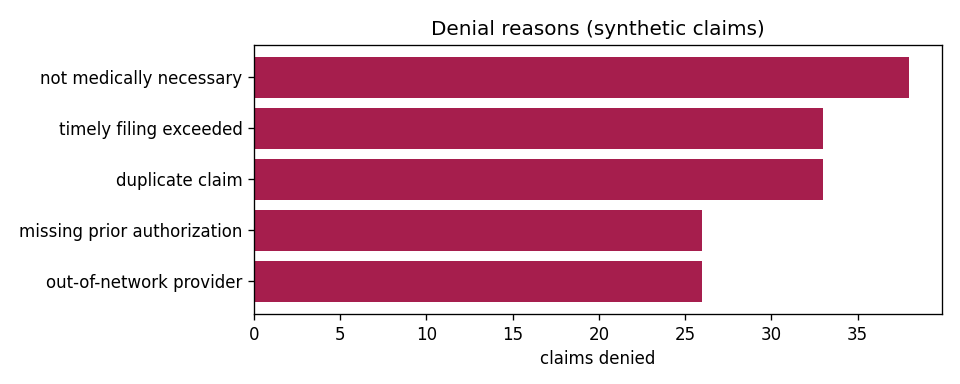
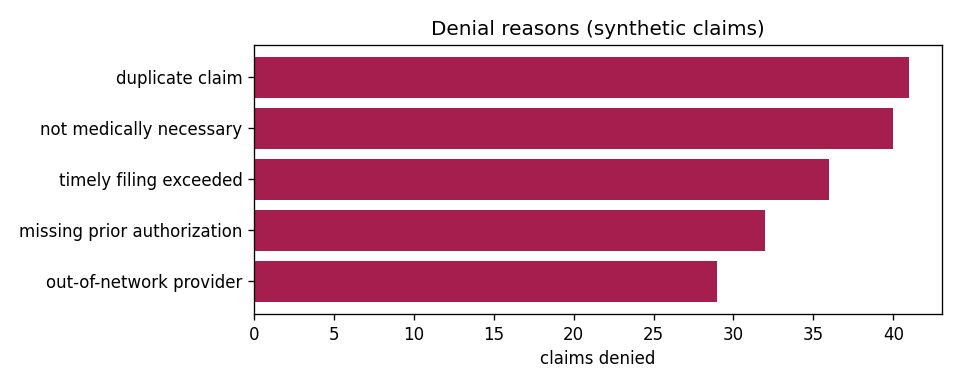
Add month-over-month trend table (complete months only)
Claims, paid and denial-rate change vs prior month; the in-progress month is excluded so partial data does not distort it. +180 synthetic claims, 2 new tests (43 total).

diff --git a/tests/test_pipeline.py b/tests/test_pipeline.py
@@ -210,3 +210,30 @@ def test_report_renders_duplicates_section_even_when_empty():
         "member_id": "MBR-0001", "procedure_code": "99213", "service_date": "2026-11-01",
         "claim_ids": ["A", "B"], "paid": 90.0}])
     assert "| MBR-0001 | 99213 | 2026-11-01 | 2 | $90 |" in md
+
+
+def test_monthly_trend_changes(tmp_path):
+    pipe = Pipeline(tmp_path / "c.csv")
+    pipe.ingest([
+        make_valid("CLM-1", service_date="2026-09-05", paid_amount=100, allowed_amount=100, billed_amount=200),
+        make_valid("CLM-2", service_date="2026-09-06", paid_amount=100, allowed_amount=100, billed_amount=200),
+        make_valid("CLM-3", service_date="2026-10-05", paid_amount=300, allowed_amount=300, billed_amount=400),
+        make_valid("CLM-4", service_date="2026-10-06", status="denied", paid_amount=0,
+                   allowed_amount=0, billed_amount=100, denial_reason="duplicate claim"),
+        make_valid("CLM-5", service_date="2026-10-07", paid_amount=0, allowed_amount=0,
+                   billed_amount=100, status="denied", denial_reason="duplicate claim"),
+        make_valid("CLM-6", service_date="2026-10-08", paid_amount=100, allowed_amount=100, billed_amount=200),
+    ])
+    first, second = pipe.monthly_trend()
+    assert first["claims_change"] is None and first["denial_rate_pp"] is None
+    assert second["claims_change"] == 1.0   # 2 -> 4 claims
+    assert second["paid_change"] == 1.0     # 200 -> 400
+    assert second["denial_rate_pp"] == 50.0  # 0% -> 50%
+
+
+def test_report_renders_trend_table():
+    from healthdata import report
+    md = report.render_markdown([], [], [], 0, trend=[
+        {"month": "2026-09", "claims_change": None, "paid_change": None, "denial_rate_pp": None},
+        {"month": "2026-10", "claims_change": 0.25, "paid_change": -0.1, "denial_rate_pp": 1.5}])
+    assert "| 2026-10 | +25.0% | -10.0% | +1.50 pp |" in md and "| 2026-09 | - | - | - |" in md

diff --git a/src/healthdata/report.py b/src/healthdata/report.py
@@ -17,7 +17,8 @@ def render_markdown(monthly: list[dict], denial_reasons: list[tuple[str, int]],
                     utilization: dict | None = None,
                     age_bands: list[dict] | None = None,
                     reasons_by_plan: dict | None = None,
-                    duplicates: list[dict] | None = None) -> str:
+                    duplicates: list[dict] | None = None,
+                    trend: list[dict] | None = None) -> str:
     generated_at = generated_at or dt.datetime.now(dt.timezone.utc)
     total_paid = sum(m["paid"] for m in monthly)
     total_billed = sum(m["billed"] for m in monthly)
@@ -75,6 +76,14 @@ def render_markdown(monthly: list[dict], denial_reasons: list[tuple[str, int]],
                   "| Plan | Denials | Top reason | Count |", "| --- | ---: | --- | ---: |"]
         for plan, reasons in reasons_by_plan.items():
             lines.append(f"| {plan} | {sum(c for _, c in reasons)} | {reasons[0][0]} | {reasons[0][1]} |")
+    if trend and len(trend) > 1:
+        def fmt(v, suffix=""):
+            return "-" if v is None else f"{v:+.1%}" if suffix == "%" else f"{v:+.2f} pp"
+        lines += ["", "## Month-over-month trend (last 6 complete months)", "",
+                  "| Month | Claims | Paid | Denial rate |", "| --- | ---: | ---: | ---: |"]
+        for t in trend[-6:]:
+            lines.append(f"| {t['month']} | {fmt(t['claims_change'], '%')} | "
+                         f"{fmt(t['paid_change'], '%')} | {fmt(t['denial_rate_pp'])} |")
     if duplicates is not None:
         lines += ["", "## Potential duplicate services", "",
                   f"{len(duplicates)} groups share a member, procedure and service date "

diff --git a/src/healthdata/pipeline.py b/src/healthdata/pipeline.py
@@ -230,3 +230,22 @@ class Pipeline:
                             "claim_ids": sorted(r["claim_id"] for r in rows),
                             "paid": round(sum(float(r["paid_amount"] or 0) for r in rows), 2)})
         return sorted(out, key=lambda g: (-g["paid"], g["member_id"], g["service_date"]))
+
+    def monthly_trend(self) -> list[dict]:
+        """Month-over-month change in claim volume, paid dollars and denial
+        rate (percentage points). The first month has no prior, so its
+        changes are None. Synthetic, illustrative."""
+        months = self.monthly_financials()
+        out = []
+        prev = None
+        for m in months:
+            def pct(cur, old):
+                return round((cur - old) / old, 4) if old else None
+            out.append({
+                "month": m["month"],
+                "claims_change": pct(m["claims"], prev["claims"]) if prev else None,
+                "paid_change": pct(m["paid"], prev["paid"]) if prev else None,
+                "denial_rate_pp": round((m["denial_rate"] - prev["denial_rate"]) * 100, 2) if prev else None,
+            })
+            prev = m
+        return out

diff --git a/scripts/daily_update.py b/scripts/daily_update.py
@@ -56,7 +56,9 @@ def main() -> int:
                                utilization=pipe.high_utilizers(),
                                age_bands=pipe.age_band_costs(),
                                reasons_by_plan=pipe.denial_reasons_by_plan(),
-                               duplicates=pipe.potential_duplicates()),
+                               duplicates=pipe.potential_duplicates(),
+                               trend=[t for t in pipe.monthly_trend()
+                                      if t["month"] < today.strftime("%Y-%m")]),
         encoding="utf-8",
     )
     if report.plot_monthly_financials(monthly, REPORTS / "monthly_financials.png"):

diff --git a/reports/claims_report.md b/reports/claims_report.md
@@ -1,8 +1,8 @@
 # Healthcare Data - claims pipeline report
 
-Generated 2026-11-18 09:08 UTC. All data is synthetic - no real member, patient or plan information.
+Generated 2026-11-18 14:09 UTC. All data is synthetic - no real member, patient or plan information.
 
-**1520 claims** in store. Billed $4,431,586, paid $2,594,257, denied 155 overall.
+**1700 claims** in store. Billed $5,108,477, paid $2,952,606, denied 177 overall.
 
 ## Monthly financials
 
@@ -20,45 +20,45 @@ Generated 2026-11-18 09:08 UTC. All data is synthetic - no real member, patient 
 | 2026-08 | 50 | $87,251 | $70,911 | $55,220 | 18.0% |
 | 2026-09 | 28 | $97,162 | $80,729 | $53,482 | 7.1% |
 | 2026-10 | 47 | $71,505 | $55,063 | $42,442 | 8.5% |
-| 2026-11 | 1041 | $3,161,624 | $2,438,863 | $1,802,808 | 10.2% |
+| 2026-11 | 1221 | $3,838,514 | $2,960,836 | $2,161,156 | 10.5% |
 
 ## Denial reasons
 
-- not medically necessary (38)
-- timely filing exceeded (33)
-- duplicate claim (33)
-- missing prior authorization (26)
-- out-of-network provider (26)
+- duplicate claim (41)
+- not medically necessary (40)
+- timely filing exceeded (36)
+- missing prior authorization (32)
+- out-of-network provider (29)
 
 ## Plan mix
 
-- HMO: 413
-- PPO: 393
-- EPO: 374
-- HDHP: 340
+- HMO: 465
+- PPO: 433
+- EPO: 428
+- HDHP: 374
 
 ## Plan performance
 
 | Plan | Claims | Denial rate | Paid / billed |
 | --- | ---: | ---: | ---: |
-| HMO | 413 | 9.4% | 62.8% |
-| PPO | 393 | 12.0% | 54.4% |
-| EPO | 374 | 11.0% | 55.5% |
-| HDHP | 340 | 8.5% | 61.4% |
+| HMO | 465 | 9.7% | 60.9% |
+| PPO | 433 | 11.6% | 55.1% |
+| EPO | 428 | 11.7% | 55.4% |
+| HDHP | 374 | 8.8% | 60.0% |
 
 ## Top procedures by paid amount
 
 | Code | Claims | Avg billed | Paid | Denial rate |
 | --- | ---: | ---: | ---: | ---: |
-| 27447 | 149 | $25,130 | $2,195,863 | 10.1% |
-| 43239 | 161 | $2,054 | $190,170 | 10.6% |
-| 99285 | 153 | $1,061 | $91,140 | 12.4% |
-| 70450 | 149 | $668 | $60,780 | 6.7% |
-| 99214 | 142 | $167 | $13,609 | 12.7% |
+| 27447 | 173 | $25,138 | $2,514,214 | 11.6% |
+| 43239 | 179 | $2,044 | $208,446 | 11.7% |
+| 99285 | 168 | $1,060 | $101,164 | 11.9% |
+| 70450 | 165 | $664 | $66,100 | 7.3% |
+| 99214 | 163 | $168 | $15,819 | 11.0% |
 
 ## Member utilization
 
-100 of 1055 synthetic members have 3+ claims and account for 19.3% of paid dollars.
+126 of 1129 synthetic members have 3+ claims and account for 21.6% of paid dollars.
 
 | Member | Claims | Paid |
 | --- | ---: | ---: |
@@ -66,20 +66,31 @@ Generated 2026-11-18 09:08 UTC. All data is synthetic - no real member, patient 
 | MBR-0746 | 5 | $11,386 |
 | MBR-1542 | 4 | $27,681 |
 | MBR-0471 | 4 | $16,601 |
-| MBR-1166 | 4 | $14,618 |
+| MBR-0600 | 4 | $15,228 |
 
 ## Top denial reason by plan
 
 | Plan | Denials | Top reason | Count |
 | --- | ---: | --- | ---: |
-| EPO | 41 | not medically necessary | 11 |
-| HDHP | 29 | not medically necessary | 7 |
-| HMO | 39 | not medically necessary | 11 |
-| PPO | 47 | timely filing exceeded | 14 |
+| EPO | 50 | duplicate claim | 13 |
+| HDHP | 33 | not medically necessary | 8 |
+| HMO | 45 | not medically necessary | 12 |
+| PPO | 50 | timely filing exceeded | 16 |
+
+## Month-over-month trend (last 6 complete months)
+
+| Month | Claims | Paid | Denial rate |
+| --- | ---: | ---: | ---: |
+| 2026-05 | -10.4% | +48.8% | +3.30 pp |
+| 2026-06 | +7.0% | +7.8% | +3.59 pp |
+| 2026-07 | +2.2% | -21.7% | -6.71 pp |
+| 2026-08 | +6.4% | -42.2% | +9.49 pp |
+| 2026-09 | -44.0% | -3.1% | -10.86 pp |
+| 2026-10 | +67.9% | -20.6% | +1.37 pp |
 
 ## Potential duplicate services
 
-17 groups share a member, procedure and service date (review queue, not a quality failure).
+18 groups share a member, procedure and service date (review queue, not a quality failure).
 
 | Member | Procedure | Date | Claims | Paid |
 | --- | --- | --- | ---: | ---: |
